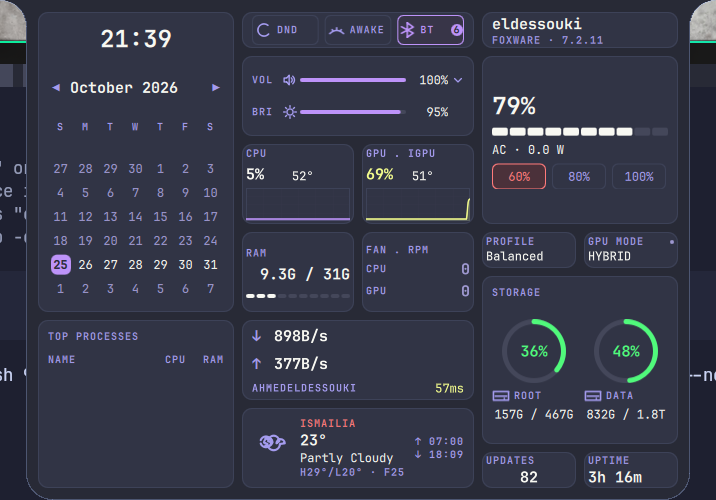
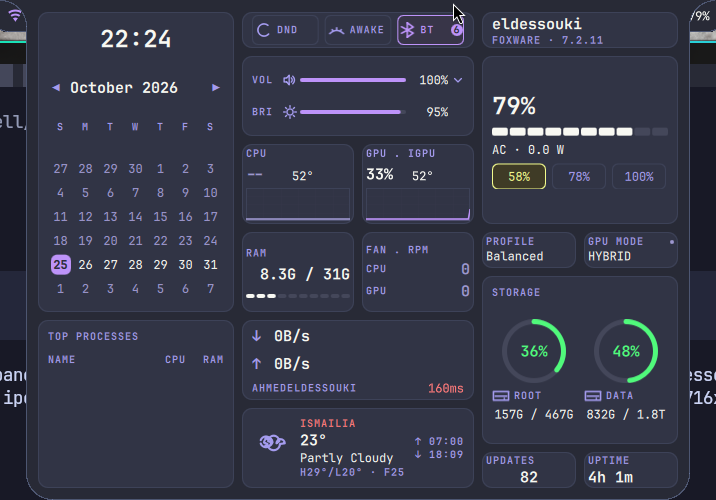
Retune the charge presets to 58/78/100 and mark the pick in yellow
The three presets were two numbers in one file, three in another and a bare
[60, 80, 100] array in the panel. They now live once in
Config.chargeLimitPresets, so the popup rows and the panel chips are the same
three values by construction and a fork can change them in one place.

Selection is yellow (Dracula #f1fa8c) on a dark olive tint: yellow measures
10.1:1 on it and the label lavender 4.56:1, so both clear AA where the old
red text did not. The palette comment names this as the single case where
yellow means 'selected' rather than 'warning'.

The chips no longer disappear when the EC reports a limit outside the list
(the machine was sitting on 60%, which hid every control); they render
whenever the read succeeds, with nothing selected, and only a failed read
falls back to 'LIMIT N/A'. Opening the panel re-reads the EC, because the
limit changes outside the shell and the chips were showing a stale answer.

Also drop the chargeLimitLabelWidth token, which no layout reads, and refresh
the panel screenshot.

diff --git a/island/modules/HealthPanel.qml b/island/modules/HealthPanel.qml
@@ -388,6 +388,9 @@ Item {
 
   readonly property int batteryFillSegments: Math.round(
     Math.max(0, Math.min(100, root.batteryCapacity)) / 100 * Theme.batteryBarSegments)
+  // The presets live in Config, not in the panel: the popup and the chips read
+  // the same three values, so they cannot disagree about what a preset is.
+  readonly property var chargeLimitPresets: Config.chargeLimitPresets
   readonly property string batteryStateText: root.batteryCharging ? "Charging"
     : (root.batteryOnAc ? "AC" : "Discharging")
   readonly property string batteryStatusText: root.hasBattery
@@ -430,6 +433,8 @@ Item {
   readonly property bool asusRowVisible: root.profileToolAvailable || root.gpuToolAvailable
   readonly property bool chargeLimitSupported: root.batteryService
     ? root.batteryService.chargeLimitSupported : false
+  readonly property bool chargeLimitRead: root.batteryService
+    ? root.batteryService.chargeLimitRead : false
 
   readonly property string profileText: root.powerProfile.length > 0
     ? root.powerProfile : "--"
@@ -485,11 +490,6 @@ Item {
     return a
   }
 
-  function hasPresetChargeLimit() {
-    return root.batteryService && root.batteryService.chargeLimitRead
-      && [60, 80, 100].indexOf(root.batteryService.chargeLimit) >= 0
-  }
-
   width: root.contentWidth
   height: root.contentHeight
   opacity: root.active ? 1 : 0
@@ -525,6 +525,10 @@ Item {
     if (root.updateService) root.updateService.start()
     if (root.storageService) root.storageService.start()
     if (root.weatherService) root.weatherService.active = true
+    // The EC's charge threshold changes outside the shell (BIOS, another
+    // tool), and the chips must not show yesterday's answer. One read per
+    // panel open; the service re-reads after every write.
+    if (root.batteryService) root.batteryService.refreshChargeLimit()
     var today = new Date()
     root.viewYear = today.getFullYear()
     root.viewMonth = today.getMonth()
@@ -1625,29 +1629,34 @@ Item {
             height: Theme.chipHeight
             spacing: Theme.gapSmall
             Caption {
-              visible: !root.hasPresetChargeLimit()
+              // Only a failed/absent read falls back to text. The three presets
+              // stay clickable even when the EC reports a value outside them —
+              // otherwise a machine left on 60% would lose its controls.
+              visible: !root.chargeLimitRead
               width: parent.width
               height: parent.height
               verticalAlignment: Text.AlignVCenter
-              color: root.batteryService && root.batteryService.chargeLimitRead
-                ? Theme.label : Theme.comment
-              text: root.batteryService && root.batteryService.chargeLimitRead
-                ? "LIMIT " + Format.percent(root.batteryService.chargeLimit)
-                : "LIMIT N/A"
+              color: root.batteryService && root.batteryService.chargeLimitReading
+                ? Theme.comment : Theme.label
+              text: root.batteryService && root.batteryService.chargeLimitReading
+                ? "LIMIT WAIT" : "LIMIT N/A"
             }
 
             Row {
-              visible: root.hasPresetChargeLimit()
+              visible: root.chargeLimitRead
               width: parent.width
               height: Theme.chipHeight
               spacing: Theme.gapSmall
               Repeater {
-                model: root.hasPresetChargeLimit() ? [60, 80, 100] : []
+                model: root.chargeLimitRead
+                  ? root.chargeLimitPresets.map(function (p) { return p.pct }) : []
                 delegate: LimitChip {
                   required property int modelData
                   limit: modelData
                   height: Theme.chipHeight
-                  width: Math.floor((parent.width - 2 * Theme.gapSmall) / 3)
+                  width: Math.floor((parent.width
+                    - (root.chargeLimitPresets.length - 1) * Theme.gapSmall)
+                    / root.chargeLimitPresets.length)
                 }
               }
             }
@@ -2071,7 +2080,7 @@ Item {
   // A charge limit chip: active one is outlined and tinted, the rest is flat.
   component LimitChip: Rectangle {
     id: limitChip
-    property int limit: 60
+    property int limit: 0
     readonly property bool isActive: root.batteryService
       ? root.batteryService.chargeLimitRead
         && root.batteryService.chargeLimit === limitChip.limit : false

diff --git a/island/config/Theme.qml b/island/config/Theme.qml
@@ -25,17 +25,20 @@ QtObject {
   property color foreground: "#f8f8f2"
 
   // Purple marks an active/selected state and fills sliders;
-  // green/yellow/orange/red mark a threshold or a warning. Nothing else.
+  // green/yellow/orange/red mark a threshold or a warning. The one exception is
+  // the battery charge limit, which is yellow in its selected state: it is a
+  // battery-health setting, not a generic toggle, and yellow is the palette's
+  // "this is a deliberate limit" signal.
   property color accent: "#bd93f9"
   property color green: "#50fa7b"
   property color yellow: "#f1fa8c"
   property color orange: "#ffb86c"
   // Dracula's red is #ff5555, which measures 3.91:1 on a card and 4.28:1 on the
   // charge-limit tint: too low for text. Lifted one step so every place red is
-  // printed — weather city, critical values, charge limit — clears 4.5:1.
+  // printed — weather city, critical values — clears 4.5:1.
   property color red: "#ff7a7a"
   readonly property color weatherCity: root.red
-  readonly property color chargeLimitActive: root.red
+  readonly property color chargeLimitActive: root.yellow
 
   // One muted lavender for every card label in the health panel.
   // Contrast against cardFill: 4.98:1 (WCAG AA needs 4.5:1).
@@ -56,7 +59,9 @@ QtObject {
   readonly property color cardBorderColor: "#3d4258"
   readonly property color cardHoverFill: "#3a3e52"
   readonly property color activeTint: "#383548"
-  readonly property color chargeLimitActiveTint: "#4b313a"
+  // Dark olive that reads as "yellow selected" behind the yellow text; yellow
+  // measures 10.1:1 on it and the label lavender 4.56:1, so both clear AA.
+  readonly property color chargeLimitActiveTint: "#3f3b26"
   readonly property color transparent: "transparent"
 
   // ===========================================================================
@@ -230,7 +235,6 @@ QtObject {
   readonly property int pillDateWidth: 92
   readonly property int pillIpMaxWidth: 140
   readonly property int pillMeterMaxWidth: 80
-  readonly property int chargeLimitLabelWidth: 92
   readonly property int chargeLimitValueWidth: 48
   readonly property int chargePopupWidth: 286
   readonly property int chargePopupRowHeight: 44

diff --git a/island/modules/BatteryLimitPopup.qml b/island/modules/BatteryLimitPopup.qml
@@ -90,11 +90,7 @@ PanelWindow {
 
       Repeater {
         model: root.batteryService && root.batteryService.chargeLimitSupported
-          && root.batteryService.chargeLimitRead ? [
-          { pct: 60, detail: "Longest battery life" },
-          { pct: 80, detail: "Balanced" },
-          { pct: 100, detail: "Full capacity" }
-        ] : []
+          && root.batteryService.chargeLimitRead ? Config.chargeLimitPresets : []
 
         delegate: Rectangle {
           id: option
@@ -174,7 +170,7 @@ PanelWindow {
   }
 
   readonly property int optionCount: root.batteryService && root.batteryService.chargeLimitSupported
-    && root.batteryService.chargeLimitRead ? 3 : 0
+    && root.batteryService.chargeLimitRead ? Config.chargeLimitPresets.length : 0
   readonly property int contentRowCount: 1 + root.optionCount
     + (root.batteryService && root.batteryService.chargeLimitError ? 1 : 0)
   readonly property int containerHeight: Theme.chargePopupPad * 2 + Theme.fontSizeBody

diff --git a/island/config/Config.qml b/island/config/Config.qml
@@ -21,4 +21,15 @@ QtObject {
   // exists wins; if none do, the first available output is used, so a machine
   // with different output names still gets a working bar.
   property var preferredScreens: ["eDP-1", "eDP-2"]
+
+  // Battery charge-limit presets, in display order. `pct` is the value written
+  // to `asusctl battery limit` (20-100); `detail` is the line printed beside it
+  // in the popup. The chips stay clickable when the EC reports a limit outside
+  // this list (a machine left on 60%, say): none is marked selected, so the UI
+  // never claims a preset that is not actually set.
+  property var chargeLimitPresets: [
+    { "pct": 58, "detail": "Longest battery life" },
+    { "pct": 78, "detail": "Balanced" },
+    { "pct": 100, "detail": "Full capacity" }
+  ]
 }

diff --git a/README.md b/README.md
@@ -9,7 +9,7 @@ A single morphing pill that expands on hover into a full status cluster, built w
 - **Morphing pill** — three states in one bar: a narrow idle pill, a hover-expanded layout, and a compact centered meter for transient feedback (volume / brightness / keyboard-lock OSD).
 - **Volume + brightness control** — scroll to adjust, click to mute / toggle; each shows a compact centered meter that pops up on bind, triggered over Hyprland IPC from your hardware keys.
 - **Honest brightness scale** — the percentage on screen is exactly what `brightnessctl` reports, from 1% to 100%. There is no hidden remap: a backlight at 100% of its range reads 100%.
-- **Battery charge-limit popup** — click the battery icon for **60%**, **80%**, or **100%** presets via `asusctl battery limit`; the active preset is read back from the system and marked red. Without `asusd` the row is not drawn at all.
+- **Battery charge-limit popup** — click the battery icon for **58%**, **78%**, or **100%** presets via `asusctl battery limit`; the selected preset is read back from the system and marked in Dracula yellow. Without `asusd` the row is not drawn at all.
 - **Workspaces** — one `WorkspaceItem` component drives both states: the idle pill shows only the active workspace, the expanded pill shows **1–10** in fixed 22px slots with a single accent pill that **slides** between them (150 ms). Occupied slots carry a dot, empty slots stay dim, hover lightens the fill, and clicking an empty slot focuses it.
 - **Caps / Num lock OSD** — a short-lived, centered popup that appears when either lock key changes.
 - **Headphone jack detection** — the volume icon reflects the active `wpctl` sink port.
@@ -142,6 +142,12 @@ property var diskMounts: [                 // ring gauges, in display order
   { "mount": "/mnt/data", "label": "DATA" }
 ]
 property var preferredScreens: ["eDP-1"]   // first name that exists wins
+
+property var chargeLimitPresets: [         // battery popup + panel chips
+  { "pct": 58, "detail": "Longest battery life" },
+  { "pct": 78, "detail": "Balanced" },
+  { "pct": 100, "detail": "Full capacity" }
+]
 ```
 
 Unknown mounts are dropped, and an unknown output name falls through to the first screen the compositor reports.
@@ -190,7 +196,7 @@ island/
 ├── config/
 │   ├── qmldir             # QML module definition (three singletons)
 │   ├── Theme.qml          # Dracula palette + type scale + 36px grid, single source of truth
-│   ├── Config.qml         # Personal settings: disk mounts, preferred output
+│   ├── Config.qml         # Personal settings: disk mounts, output, charge presets
 │   └── Format.qml         # Number / unit formatting
 ├── components/
 │   ├── AudioDeviceMenu.qml # Output / input device picker for the controls card
@@ -227,7 +233,7 @@ island/
 │   └── WeatherService.qml # ipwho.is geolocation + open-meteo forecast
 └── modules/
     ├── IslandPill.qml     # The pill — idle / hover / meter states + IPC
-    ├── BatteryLimitPopup.qml # Charge-threshold radio presets (60/80/100%)
+    ├── BatteryLimitPopup.qml # Charge-threshold radio presets (from Config: 58/78/100%)
     ├── FloatingHealth.qml # Overlay window hosting the consolidated panel
     ├── HealthPanel.qml    # Bento panel: clock+procs / controls+weather / power+storage
     ├── NotificationLayer.qml # Banner stack w/ expiry
